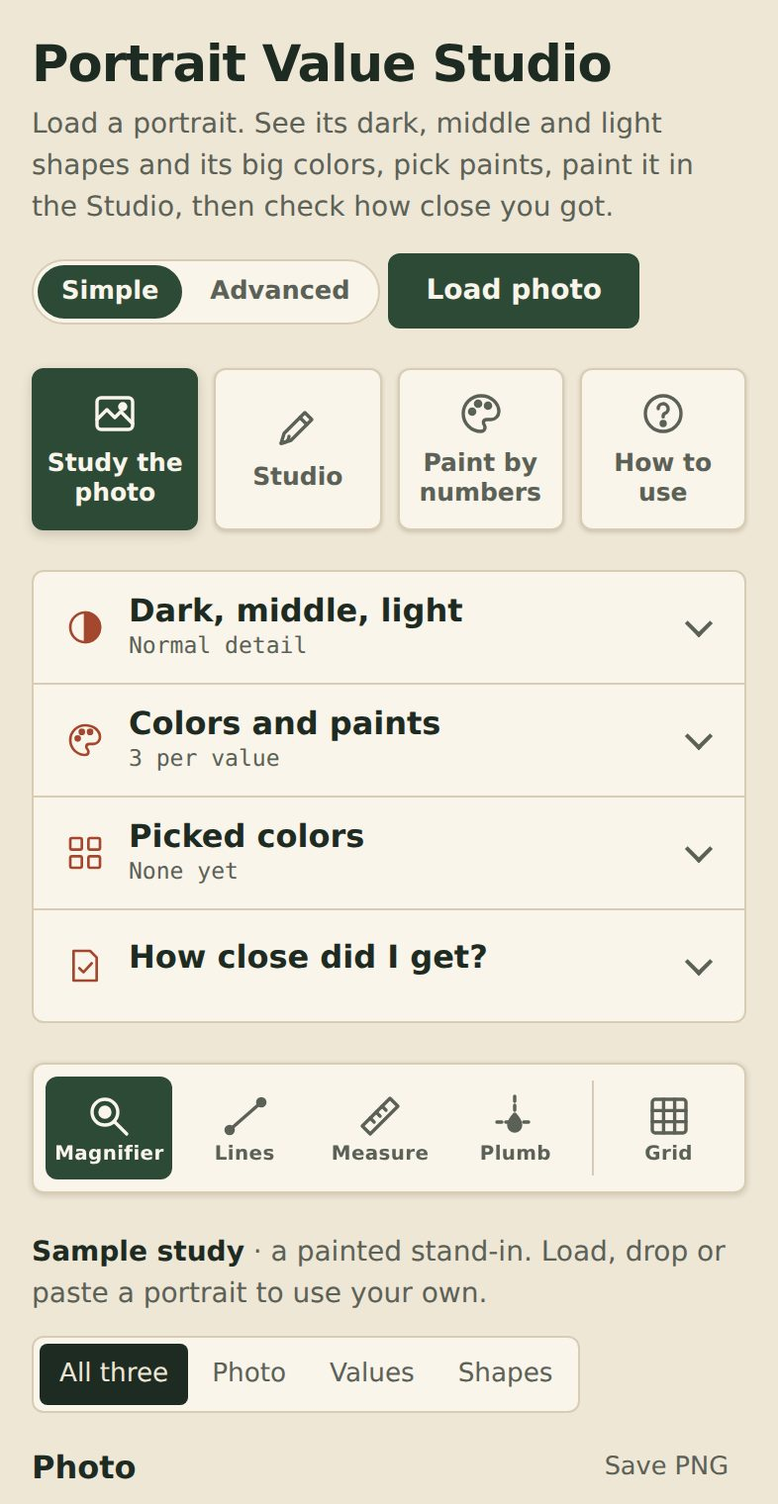
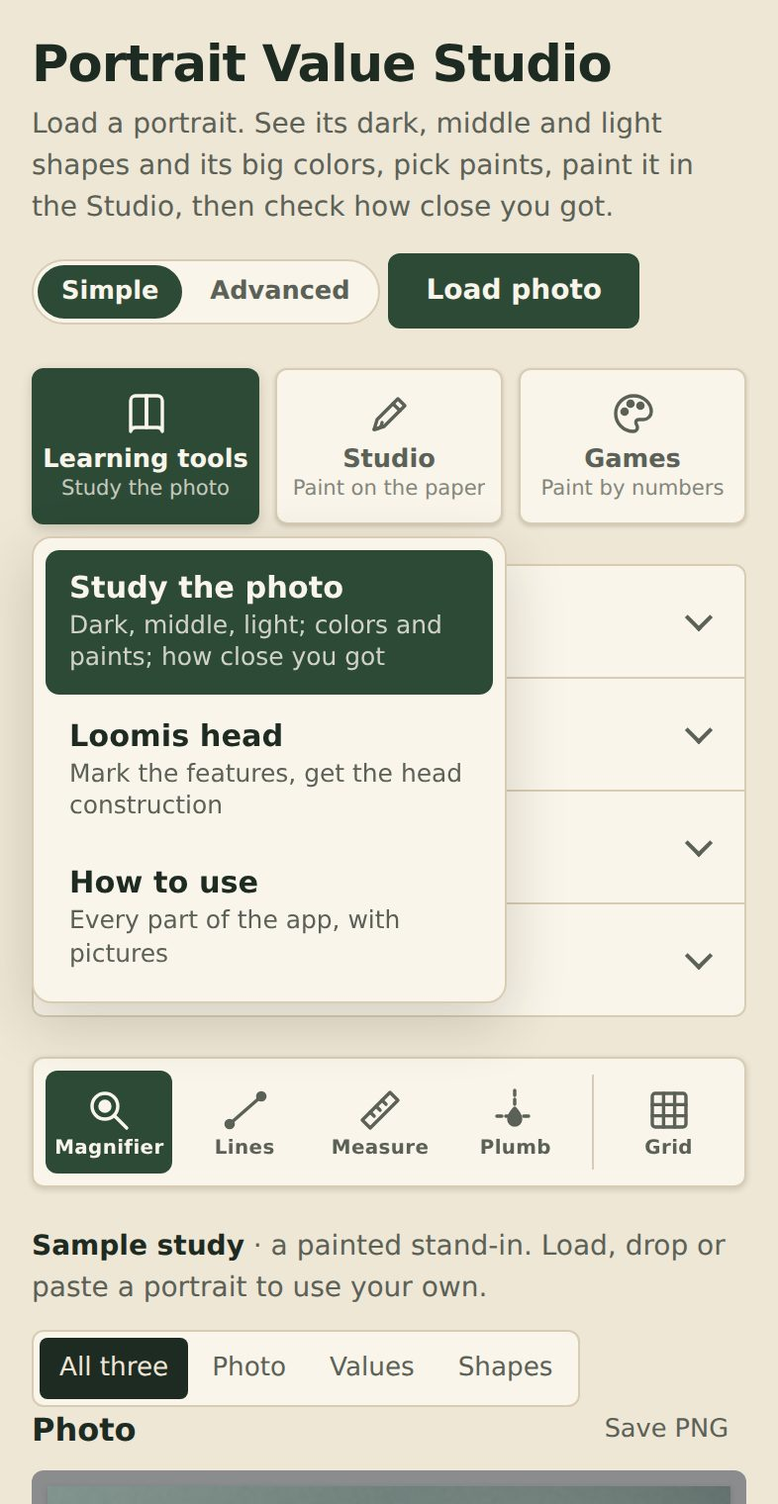
Three sections at the top: Learning tools, Studio and Games
The row of tabs becomes three section buttons. Learning tools opens a
menu with Study the photo, the Loomis head and How to use; Studio stays
its own button; Games opens a menu with Paint by numbers and a note that
more are coming. The group button shows which page is open. Menus close
on a choice, a click outside or Escape, and take arrow keys. The pages,
their links and the guide's jump buttons work as before.

Claude-Session: https://claude.ai/code/session_01XVREo3r8Hxw4H8arPAzQN1

diff --git a/index.html b/index.html
@@ -23,12 +23,23 @@
     </div>
   </header>
 
-  <div class="tabs" role="tablist" aria-label="Mode">
-    <button type="button" role="tab" class="tab" id="tabStudyBtn" aria-selected="true" aria-controls="tab-study"><svg class="tab-icon" viewBox="0 0 24 24" aria-hidden="true"><rect x="3" y="4" width="18" height="16" rx="2"/><path d="M3 15l5-5 4 4 3-3 6 6"/><circle cx="16" cy="8.5" r="1.5" fill="currentColor"/></svg><span>Study the photo</span></button>
-    <button type="button" role="tab" class="tab" id="tabLoomisBtn" aria-selected="false" aria-controls="tab-loomis" tabindex="-1"><svg class="tab-icon" viewBox="0 0 24 24" aria-hidden="true"><circle cx="12" cy="9.5" r="6.5"/><path d="M5.5 9.5h13M12 3v18M7.5 14.5 9 20h6l1.5-5.5"/><path d="M8.5 11.5h2M13.5 11.5h2"/></svg><span>Loomis head</span></button>
-    <button type="button" role="tab" class="tab" id="tabPaintBtn" aria-selected="false" aria-controls="tab-paint" tabindex="-1"><svg class="tab-icon" viewBox="0 0 24 24" aria-hidden="true"><path d="M4 20l1.5-5L16 4.5l3.5 3.5L9 18.5 4 20z"/><path d="M13.5 7l3.5 3.5"/><path d="M4 20c2.5 0 4-1.5 4-3.5"/></svg><span>Studio</span></button>
-    <button type="button" role="tab" class="tab" id="tabGameBtn" aria-selected="false" aria-controls="tab-game" tabindex="-1"><svg class="tab-icon" viewBox="0 0 24 24" aria-hidden="true"><path d="M12 3a9 9 0 1 0 0 18c1.4 0 2-1 2-2s-.8-1.5-.8-2.5S14 15 15 15h2a4 4 0 0 0 4-4c0-4.4-4-8-9-8z"/><circle cx="7.5" cy="11" r="1.3" fill="currentColor"/><circle cx="10.5" cy="7" r="1.3" fill="currentColor"/><circle cx="15.5" cy="8" r="1.3" fill="currentColor"/></svg><span>Paint by numbers</span></button>
-    <button type="button" role="tab" class="tab" id="tabHelpBtn" aria-selected="false" aria-controls="tab-help" tabindex="-1"><svg class="tab-icon" viewBox="0 0 24 24" aria-hidden="true"><circle cx="12" cy="12" r="9"/><path d="M9.5 9.5a2.5 2.5 0 1 1 3.5 2.3c-.7.3-1 .8-1 1.5v.4"/><circle cx="12" cy="17" r="1" fill="currentColor"/></svg><span>How to use</span></button>
+  <div class="tabs" aria-label="Sections">
+    <div class="tab-group" data-group="learn">
+      <button type="button" class="tab" id="tabLearnBtn" aria-selected="true" aria-haspopup="menu" aria-expanded="false" aria-controls="tabLearnMenu"><svg class="tab-icon" viewBox="0 0 24 24" aria-hidden="true"><path d="M4 5.5A2.5 2.5 0 0 1 6.5 3H12v16H6.5A2.5 2.5 0 0 0 4 21z"/><path d="M20 5.5A2.5 2.5 0 0 0 17.5 3H12v16h5.5a2.5 2.5 0 0 1 2.5 2z"/></svg><span class="tab-text"><span>Learning tools</span><span class="tab-sub" id="tabLearnSub">Study the photo</span></span><svg class="tab-caret" viewBox="0 0 24 24" aria-hidden="true"><path d="M6 9l6 6 6-6"/></svg></button>
+      <div class="tab-menu" id="tabLearnMenu" role="menu" hidden>
+        <button type="button" role="menuitemradio" class="tab-item" id="tabStudyBtn" data-tab="study" aria-checked="true"><span>Study the photo</span><small>Dark, middle, light; colors and paints; how close you got</small></button>
+        <button type="button" role="menuitemradio" class="tab-item" id="tabLoomisBtn" data-tab="loomis" aria-checked="false"><span>Loomis head</span><small>Mark the features, get the head construction</small></button>
+        <button type="button" role="menuitemradio" class="tab-item" id="tabHelpBtn" data-tab="help" aria-checked="false"><span>How to use</span><small>Every part of the app, with pictures</small></button>
+      </div>
+    </div>
+    <button type="button" class="tab" id="tabPaintBtn" data-tab="paint" aria-selected="false"><svg class="tab-icon" viewBox="0 0 24 24" aria-hidden="true"><path d="M4 20l1.5-5L16 4.5l3.5 3.5L9 18.5 4 20z"/><path d="M13.5 7l3.5 3.5"/><path d="M4 20c2.5 0 4-1.5 4-3.5"/></svg><span class="tab-text"><span>Studio</span><span class="tab-sub">Paint on the paper</span></span></button>
+    <div class="tab-group" data-group="games">
+      <button type="button" class="tab" id="tabGamesBtn" aria-selected="false" aria-haspopup="menu" aria-expanded="false" aria-controls="tabGamesMenu"><svg class="tab-icon" viewBox="0 0 24 24" aria-hidden="true"><path d="M12 3a9 9 0 1 0 0 18c1.4 0 2-1 2-2s-.8-1.5-.8-2.5S14 15 15 15h2a4 4 0 0 0 4-4c0-4.4-4-8-9-8z"/><circle cx="7.5" cy="11" r="1.3" fill="currentColor"/><circle cx="10.5" cy="7" r="1.3" fill="currentColor"/><circle cx="15.5" cy="8" r="1.3" fill="currentColor"/></svg><span class="tab-text"><span>Games</span><span class="tab-sub" id="tabGamesSub">Paint by numbers</span></span><svg class="tab-caret" viewBox="0 0 24 24" aria-hidden="true"><path d="M6 9l6 6 6-6"/></svg></button>
+      <div class="tab-menu" id="tabGamesMenu" role="menu" hidden>
+        <button type="button" role="menuitemradio" class="tab-item" id="tabGameBtn" data-tab="game" aria-checked="false"><span>Paint by numbers</span><small>Mix every number's color against the clock</small></button>
+        <p class="tab-menu-note">More games are on the way.</p>
+      </div>
+    </div>
   </div>
 
   <div class="layout">
@@ -279,7 +290,7 @@
 
 
 
-      <section class="tabpanel" id="tab-study" role="tabpanel" aria-labelledby="tabStudyBtn">
+      <section class="tabpanel" id="tab-study">
         <div class="work-bar">
           <p class="source" id="source"></p>
           <div class="seg" role="radiogroup" aria-label="Show">
@@ -359,7 +370,7 @@
         </section>
       </section>
 
-      <section class="tabpanel" id="tab-loomis" role="tabpanel" aria-labelledby="tabLoomisBtn" hidden>
+      <section class="tabpanel" id="tab-loomis" hidden>
         <div class="ps lh" id="lh-root">
           <div class="lh-card" id="lh-card">
             <p class="lh-step" id="lh-stepLabel">1 of 8</p>
@@ -394,7 +405,7 @@
         </div>
       </section>
 
-      <section class="tabpanel" id="tab-paint" role="tabpanel" aria-labelledby="tabPaintBtn" hidden>
+      <section class="tabpanel" id="tab-paint" hidden>
         <div class="ps" id="ps-root">
           <div class="ps-stage" id="ps-stage">
             <div class="ps-paper-wrap" id="ps-paperWrap">
@@ -574,7 +585,7 @@
         </div>
       </section>
 
-      <section class="tabpanel" id="tab-game" role="tabpanel" aria-labelledby="tabGameBtn" hidden>
+      <section class="tabpanel" id="tab-game" hidden>
         <div class="game-setup" id="gameSetup">
           <div class="game-card">
             <h2 class="game-title">Paint by numbers</h2>
@@ -755,12 +766,12 @@
         </div>
       </section>
 
-      <section class="tabpanel help" id="tab-help" role="tabpanel" aria-labelledby="tabHelpBtn" hidden>
+      <section class="tabpanel help" id="tab-help" hidden>
         <div class="help-intro">
           <h2 class="help-title">How to use Portrait Value Studio</h2>
           <p class="help-lede">Everything here runs in your browser. Your photos and paintings stay on your device. Here is the whole app, one part at a time, with pictures from a phone.</p>
           <ol class="help-steps">
-            <li><strong>Load a photo.</strong> Or keep the sample portrait. <button type="button" class="btn btn-small" data-go="study">Go to Study</button></li>
+            <li><strong>Load a photo.</strong> Or keep the sample portrait. <button type="button" class="btn btn-small" data-go="study">Go to Study the photo</button></li>
             <li><strong>Look at the shapes.</strong> See where the darks, middles and lights are, and which big colors there are.</li>
             <li><strong>Paint it in the Studio.</strong> Copy the lines, mix the colors, paint. <button type="button" class="btn btn-small" data-go="paint">Go to Studio</button></li>
             <li><strong>Check how close you got.</strong> Score your painting shape by shape. <button type="button" class="btn btn-small" data-go="check">Check a painting</button></li>
@@ -773,7 +784,7 @@
             <ol>
               <li><strong>Simple or Advanced.</strong> Simple shows only what you need. Advanced shows every setting. Start with Simple.</li>
               <li><strong>Load photo</strong> puts your own portrait in. A photo of a friend, straight on, in good light, works best.</li>
-              <li>The big buttons are the tabs: <strong>Study the photo</strong>, <strong>Loomis head</strong>, <strong>Studio</strong>, <strong>Paint by numbers</strong>, and this guide.</li>
+              <li>The three big buttons are the sections. <strong>Learning tools</strong> opens a menu with Study the photo, the Loomis head and this guide. <strong>Studio</strong> is the paper to paint on. <strong>Games</strong> opens a menu with Paint by numbers, and more games to come.</li>
             </ol>
           </div>
           <div class="help-shots"><figure class="phone"><img src="img/help/start.jpg" alt="The top of the page on a phone: the Simple and Advanced switch, Load photo and the four tabs" loading="lazy"><figcaption>The top of the page</figcaption></figure></div>

diff --git a/js/app.js b/js/app.js
@@ -27,7 +27,6 @@
       orig: $('cv-orig'), value: $('cv-value'), block: $('cv-block'),
       refblock: $('cv-refblock'), art: $('cv-art'), artblock: $('cv-artblock'), diff: $('cv-diff'),
     },
-    tabs: { study: $('tabStudyBtn'), loomis: $('tabLoomisBtn'), paint: $('tabPaintBtn'), game: $('tabGameBtn'), help: $('tabHelpBtn') },
     tabPanels: { study: $('tab-study'), loomis: $('tab-loomis'), paint: $('tab-paint'), game: $('tab-game'), help: $('tab-help') },
     toolHint: $('toolHint'),
     lineUndo: $('lineUndo'),
@@ -2043,35 +2042,54 @@
 
   // ---- Tabs ---------------------------------------------------------------
 
+  // Three sections at the top: Learning tools (a menu: Study the photo, Loomis head, How to use),
+  // Studio, and Games (a menu: Paint by numbers, with more to come). The group button shows which
+  // of its pages is open.
+  const GROUP_OF = { study: 'learn', loomis: 'learn', help: 'learn', paint: 'paint', game: 'games' };
+  const TAB_NAMES = { study: 'Study the photo', loomis: 'Loomis head', help: 'How to use', paint: 'Studio', game: 'Paint by numbers' };
+  const groupBtns = { learn: $('tabLearnBtn'), paint: $('tabPaintBtn'), games: $('tabGamesBtn') };
+  const groupSubs = { learn: $('tabLearnSub'), games: $('tabGamesSub') };
+  function closeMenus() {
+    document.querySelectorAll('.tab-menu').forEach((m) => { m.hidden = true; });
+    document.querySelectorAll('.tab[aria-haspopup]').forEach((b) => b.setAttribute('aria-expanded', 'false'));
+  }
   function switchTab(name, focus) {
+    if (!els.tabPanels[name]) return;
     state.tab = name;
     if (name !== 'study') setPicking(false); // picking a neutral spot only works on Your painting
-    Object.entries(els.tabs).forEach(([key, btn]) => {
-      const on = key === name;
-      btn.setAttribute('aria-selected', on);
-      btn.tabIndex = on ? 0 : -1;
-      els.tabPanels[key].hidden = !on;
-      if (on && focus) btn.focus();
-    });
+    Object.entries(els.tabPanels).forEach(([key, panel]) => { panel.hidden = key !== name; });
+    const group = GROUP_OF[name];
+    Object.entries(groupBtns).forEach(([key, btn]) => btn.setAttribute('aria-selected', String(key === group)));
+    if (groupSubs[group]) groupSubs[group].textContent = TAB_NAMES[name];
+    document.querySelectorAll('.tab-item').forEach((b) => b.setAttribute('aria-checked', String(b.dataset.tab === name)));
+    closeMenus();
+    if (focus) groupBtns[group].focus();
     if (checking() && state.art.dirty) runCheck();
-    // the game has its own board and controls: the drawers and tool bar step aside
+    // the game, the Studio, the Loomis head and the guide have their own layouts: the drawers and tool bar step aside
     document.body.classList.toggle('tab-game', name === 'game');
     document.body.classList.toggle('tab-help', name === 'help');
     if (name !== 'study') els.loupe.hidden = true;
     drawAllOverlays();
     window.dispatchEvent(new CustomEvent('studio:tab', { detail: name }));
   }
-
-  Object.entries(els.tabs).forEach(([key, btn]) => {
-    btn.addEventListener('click', () => switchTab(key));
-    btn.addEventListener('keydown', (e) => {
-      if (e.key !== 'ArrowRight' && e.key !== 'ArrowLeft') return;
-      e.preventDefault();
-      const keys = Object.keys(els.tabs);
-      const step = e.key === 'ArrowRight' ? 1 : keys.length - 1;
-      switchTab(keys[(keys.indexOf(key) + step) % keys.length], true);
+  document.querySelectorAll('.tab-item').forEach((b) => b.addEventListener('click', () => switchTab(b.dataset.tab, true)));
+  $('tabPaintBtn').addEventListener('click', () => switchTab('paint'));
+  document.querySelectorAll('.tab[aria-haspopup]').forEach((btn) => {
+    const menu = $(btn.getAttribute('aria-controls'));
+    btn.addEventListener('click', () => {
+      const open = menu.hidden;
+      closeMenus();
+      if (open) { menu.hidden = false; btn.setAttribute('aria-expanded', 'true'); const on = menu.querySelector('.tab-item[aria-checked="true"]') || menu.querySelector('.tab-item'); if (on) on.focus(); }
+    });
+    btn.addEventListener('keydown', (e) => { if (e.key === 'ArrowDown') { e.preventDefault(); btn.click(); } });
+    menu.addEventListener('keydown', (e) => {
+      const items = [...menu.querySelectorAll('.tab-item')], i = items.indexOf(document.activeElement);
+      if (e.key === 'ArrowDown' || e.key === 'ArrowUp') { e.preventDefault(); items[(i + (e.key === 'ArrowDown' ? 1 : items.length - 1)) % items.length].focus(); }
+      if (e.key === 'Escape') { closeMenus(); btn.focus(); }
     });
   });
+  document.addEventListener('pointerdown', (e) => { if (!e.target.closest('.tab-group')) closeMenus(); });
+  document.addEventListener('keydown', (e) => { if (e.key === 'Escape') closeMenus(); });
 
   // ---- Check my painting --------------------------------------------------
 
@@ -2506,6 +2524,7 @@
     marks,
     tool: () => state.tool,
     redraw: drawAllOverlays,
+    go: switchTab,
     result: () => state.result,
     source: () => state.source,
     prep: () => state.prep,

diff --git a/styles.css b/styles.css
@@ -334,13 +334,9 @@ output { font: 500 0.8rem var(--mono); color: var(--muted); font-variant-numeric
 .tool-plumb .view.on-ring { cursor: grab; }
 .tool-plumb .view.is-dragging { cursor: grabbing; }
 
-/* ---- Tabs: three big buttons ---- */
-.tabs {
-  display: grid;
-  grid-template-columns: repeat(10, minmax(0, 1fr));
-  gap: 10px;
-}
-.tab { grid-column: span 2; }
+/* ---- Tabs: three big buttons; Learning tools and Games open menus ---- */
+.tabs { display: grid; grid-template-columns: repeat(3, minmax(0, 1fr)); gap: 10px; }
+.tab-group { position: relative; min-width: 0; display: grid; }
 .tab {
   appearance: none;
   display: flex;
@@ -348,7 +344,7 @@ output { font: 500 0.8rem var(--mono); color: var(--muted); font-variant-numeric
   justify-content: center;
   gap: 10px;
   min-height: 60px;
-  padding: 12px 16px;
+  padding: 10px 16px;
   background: var(--surface);
   border: 1px solid var(--line);
   border-radius: var(--r);
@@ -357,19 +353,35 @@ output { font: 500 0.8rem var(--mono); color: var(--muted); font-variant-numeric
   color: var(--muted);
   text-align: center;
   cursor: pointer;
+  min-width: 0;
   transition: background 0.15s, color 0.15s, border-color 0.15s, transform 0.1s;
 }
 .tab-icon { flex: none; width: 26px; height: 26px; fill: none; stroke: currentColor; stroke-width: 1.7; stroke-linecap: round; stroke-linejoin: round; }
+.tab-caret { flex: none; width: 18px; height: 18px; fill: none; stroke: currentColor; stroke-width: 2; stroke-linecap: round; stroke-linejoin: round; opacity: 0.7; transition: transform 0.15s; }
+.tab[aria-expanded="true"] .tab-caret { transform: rotate(180deg); }
+.tab-text { display: grid; gap: 1px; min-width: 0; }
+.tab-sub { font: 500 0.72rem/1.2 var(--body); opacity: 0.75; white-space: nowrap; overflow: hidden; text-overflow: ellipsis; }
 .tab:hover { color: var(--ink); border-color: var(--accent); }
 .tab:active { transform: translateY(1px); }
 .tab:focus-visible { outline: 2px solid var(--accent); outline-offset: 2px; }
 .tab[aria-selected="true"] { background: var(--accent); border-color: var(--accent); color: var(--accent-ink); box-shadow: 0 2px 6px var(--shadow); }
+.tab-menu { position: absolute; left: 0; top: calc(100% + 6px); z-index: 30; min-width: min(320px, 92vw); display: grid; gap: 2px; padding: 6px; background: var(--surface); border: 1px solid var(--line); border-radius: 10px; box-shadow: 0 10px 30px var(--shadow); }
+.tab-group:last-child .tab-menu { left: auto; right: 0; }
+.tab-item { appearance: none; display: grid; gap: 2px; width: 100%; padding: 10px 12px; border: 0; border-radius: 7px; background: none; color: var(--ink); text-align: left; cursor: pointer; font: 600 0.95rem/1.2 var(--display); }
+.tab-item small { font: 400 0.78rem/1.3 var(--body); color: var(--muted); }
+.tab-item:hover, .tab-item:focus-visible { background: var(--ground); outline: none; }
+.tab-item[aria-checked="true"] { background: var(--accent); color: var(--accent-ink); }
+.tab-item[aria-checked="true"] small { color: inherit; opacity: 0.8; }
+.tab-menu-note { margin: 2px 0 0; padding: 8px 12px; font-size: 0.78rem; color: var(--muted); border-top: 1px solid var(--line); }
 @media (max-width: 640px) {
-  .tabs { gap: 8px; grid-template-columns: repeat(6, minmax(0, 1fr)); }
-  .tab { grid-column: span 2; }
-  .tab:nth-child(n+4) { grid-column: span 3; }
-  .tab { flex-direction: column; gap: 6px; min-height: 76px; padding: 10px 4px; font-size: 0.78rem; }
+  .tabs { gap: 8px; }
+  .tab { flex-direction: column; gap: 4px; min-height: 76px; padding: 10px 4px; font-size: 0.8rem; }
+  .tab-sub { font-size: 0.66rem; max-width: 100%; }
+  .tab-caret { display: none; }
   .tab-icon { width: 24px; height: 24px; }
+  .tab-menu { min-width: 0; width: max(100%, 240px); }
+  .tab-group:first-child .tab-menu { left: 0; right: auto; }
+}
 }
 .tabpanel { display: grid; gap: 16px; min-width: 0; }
 

diff --git a/js/loomis.js b/js/loomis.js
@@ -264,7 +264,7 @@
   $('reset').addEventListener('click', reset);
   $('refit').addEventListener('click', () => { if (state.auto) { state.fit = { ...state.auto }; Studio.redraw(); drawTab(); } });
   $('show').addEventListener('click', () => { state.shown = !state.shown; render(); });
-  const toStudio = () => { document.getElementById('tabPaintBtn').click(); setTimeout(() => document.getElementById('ps-sketchFromStudy').click(), 150); };
+  const toStudio = () => { Studio.go('paint'); setTimeout(() => document.getElementById('ps-sketchFromStudy').click(), 150); };
   $('studio').addEventListener('click', toStudio);
   $('cardStudio').addEventListener('click', toStudio);
   $('save').addEventListener('click', () => {
@@ -276,7 +276,7 @@
     draw(g, prep.w, prep.h, Math.max(1, Math.max(prep.w, prep.h) / 500));
     Studio.savePng(c, 'loomis-head.png');
   });
-  $('exit').addEventListener('click', () => document.getElementById('tabStudyBtn').click());
+  $('exit').addEventListener('click', () => Studio.go('study'));
 
   // ---- The photo on the stage, and the marks made on it ----------------------------------------
   const photo = $('photo'), overlay = $('overlay'), wrap = $('wrap');

diff --git a/js/painting.js b/js/painting.js
@@ -435,7 +435,7 @@
   $('refBtn').addEventListener('click', () => openSheet('refSheet'));
   document.addEventListener('keydown', (e) => { if (active && e.key === 'Escape') closeSheets(); });
   // on a phone the tabs are out of view while painting, so the strip has a way back
-  $('exit').addEventListener('click', () => document.getElementById('tabStudyBtn').click());
+  $('exit').addEventListener('click', () => Studio.go('study'));
 
   // ---- The reference: the Study tab's photo, or a generated portrait, shown as itself, its ---------
   // three-value study or its color-block study

diff --git a/README.md b/README.md
@@ -1,6 +1,6 @@
 # Portrait Value Studio
 
-A browser tool for drawing and painting from reference portraits. Load a photo and it makes two studies next to the original (a Paint by numbers game and a Studio to paint in follow, in their own tabs, and a drawer checks your painting against the reference):
+A browser tool for drawing and painting from reference portraits. Load a photo and it makes two studies next to the original (three sections sit at the top: **Learning tools**, a menu with Study the photo, the Loomis head and How to use; **Studio**, a paper to paint on; and **Games**, a menu with Paint by numbers and room for more):
 
 - **Dark, middle, light** (the three-value study): the photo simplified into large shadow, middle and light masses, each painted a single gray.
 - **Big color shapes** (the color-block study): the same value masses, split into a few color groups per value. Each group is filled with its most prominent color: the color that covers the most of it in the photo, not a mix of everything in it. **Lean toward lighter tones** (in Colors and paints, 60% by default) corrects a dark bias in that choice: in a lit face most pixels of a group sit on its darker side, so the busiest color reads dark and a few lighter highlights lose. With the lean up, a group takes the lightest color of the same hue that is still common enough in it (at 100%, one a quarter as common as the busiest), so lit skin keeps its lights; at Off it takes the most common color as before. The same setting applies to the game board and to Check my painting, which reads both pictures the same way, so it doesn't count as a miss. It is remembered between visits. The switch above it shows the blocks in the photo's colors (**Photo**) or as your palette mixes them (for example **Zorn**): each block is repainted with the closest mix the palette makes, so you can see the painting your paints would give. The palette is the one chosen under **Colors and paints**, or, until you choose one, the known palette that mixes the study best. The choice is remembered, and the magnifier and **Save PNG** use the colors shown.
@@ -63,7 +63,7 @@ The mixes are worked out with a pigment model, not by averaging screen colors (w
 
 ### Loomis head
 
-The second tab fits the classic head construction over the face, laid out like the Studio: the photo fills the screen, and a card names one feature at a time: each eye, each eyebrow, the nose, the mouth, the chin and the forehead (eyebrows and forehead can be skipped). Tap the feature on the photo; a loupe shows the spot magnified under the finger, so drag until it is exact, then press **Lock in** (**Back** undoes the last one). After the last the head is drawn over the photo: the ball of the cranium, the flattened side plane with its vertical, the brow line through the ball's centre, the hairline, the centre line down the face, the eye, nose, mouth and chin lines, and the jaw. Lines on the far side of the head are faint and dashed.
+The Loomis head, under Learning tools, fits the classic head construction over the face, laid out like the Studio: the photo fills the screen, and a card names one feature at a time: each eye, each eyebrow, the nose, the mouth, the chin and the forehead (eyebrows and forehead can be skipped). Tap the feature on the photo; a loupe shows the spot magnified under the finger, so drag until it is exact, then press **Lock in** (**Back** undoes the last one). After the last the head is drawn over the photo: the ball of the cranium, the flattened side plane with its vertical, the brow line through the ball's centre, the hairline, the centre line down the face, the eye, nose, mouth and chin lines, and the jaw. Lines on the far side of the head are faint and dashed.
 
 The head is adjusted on the picture itself. Dragging a dot moves that mark and refits the head. Dragging a line of the head changes what that line stands for: the centre line or the side plane turns the head, the brow, hairline or eye line nods it, the nose, mouth, chin or jaw line sets the face length, the ball's edge sets its size, and a drag anywhere else inside the head moves it (each drag solves for the one value that brings the line under the finger). Arrow buttons around the ball turn, nod and tilt it three degrees at a tap, and keep going while held. **Back to the fit** on the card returns to the fitted head. The strip loads a photo, steps back a mark, starts over, hides the head, saves a PNG, and **Draw it in the Studio** puts the construction on the Studio's underdrawing in pencil. The same head shows over the Study tab's pictures and is part of what **Copy the Study lines** copies and of their saved PNGs.
 
@@ -71,7 +71,7 @@ The head is a small 3-D model in units of the ball's radius, after Loomis's *Dra
 
 ### Studio
 
-The third tab is a paper to paint on, with the studio's own paints and mixing model. The paper fills the screen; one strip of small icons holds every tool, at the bottom on a phone and down the left on a wider screen. A tool's options, the paints, the reference, the canvas and the zoom open as small sheets over the paper and close when you paint. On a phone the page header and tabs step aside while you paint; the first icon on the strip leads back.
+The Studio tab is a paper to paint on, with the studio's own paints and mixing model. The paper fills the screen; one strip of small icons holds every tool, at the bottom on a phone and down the left on a wider screen. A tool's options, the paints, the reference, the canvas and the zoom open as small sheets over the paper and close when you paint. On a phone the page header and tabs step aside while you paint; the first icon on the strip leads back.
 
 - **Brushes**: the chisel (a flat tip at a fixed angle, in small, medium and large), the round brush (with a scale slider), the pencil (graphite in 2H, HB and 4B, or charcoal in hard, medium and soft, both with a size slider and drawing in black or white only; pen pressure counts), the underdrawing brush (the same pencil on its own layer beneath the paint, which can be shown, hidden or cleared and never mixes with the painting; **Copy the Study lines** draws the grid, lines, measures and plumb lines from the Study tab on it in pencil, with the lead, hardness, size and color set for the underdrawing, fitted to the paper as the reference would be) and the blend fan brush (drags the paint already on the paper, with size and strength). The brushes share one icon: tap it after another tool to get the last brush back as it was, or while a brush is in hand to open the row of brushes and their options.
 - **Eraser**: tap to use it, tap again for its size. It rubs out whichever layer was drawn on last.
@@ -83,7 +83,7 @@ The third tab is a paper to paint on, with the studio's own paints and mixing mo
 
 ### Paint by numbers
 
-The fourth tab is a timed game on the color-block study. The reference becomes a paint-by-numbers board: its color groups, outlined in black and numbered from the darkest (1) to the lightest. A photo is simplified exactly as the **Study the reference** tab simplifies it, with the same working size, value splits, simplify, smoothing and merge, so the board has the shapes of the color-block study; the difficulty only sets how many colors each value gets (Medium's 3 matches the study's default). The side panels step aside while you play.
+Paint by numbers, under Games, is a timed game on the color-block study. The reference becomes a paint-by-numbers board: its color groups, outlined in black and numbered from the darkest (1) to the lightest. A photo is simplified exactly as the **Study the reference** tab simplifies it, with the same working size, value splits, simplify, smoothing and merge, so the board has the shapes of the color-block study; the difficulty only sets how many colors each value gets (Medium's 3 matches the study's default). The side panels step aside while you play.
 
 1. Choose what to paint from. **My photo** uses the reference loaded in the app (the sample portrait until you load your own; **Load another photo** opens a new one). **A painting** draws you a brand-new portrait each time, after Rembrandt, Zorn, Sargent, Sorolla, Velázquez, Frans Hals or Vermeer. Nothing is stored: a portrait is a painter and a random seed, and the seed decides everything else (a man or a woman, a beard, a moustache, a bun or long hair, a pearl, the collar and clothes, how the head is turned and lit), following that painter's habits, so there is no fixed set; about half are women. Roughly a quarter are old (white hair or beard, hollower cheeks and temples, deeper eye sockets under a heavier brow, thinner lips, a longer nose), most heads are turned three-quarters but some are nearly full face or in profile, the lamp can be the painter's usual side light, a soft frontal light, a dramatic raking one or one from above, and the wall behind can be a lighter block, a wedge, a window with its bars, a darker table or plain, in a tint and shade of the painter's ground. The head, neck and shoulders turn by an amount that eases with height, so the joins between them have no gaps, planes that face away are laid at the very back in shadow, and a last pass closes any seam left inside the figure, so no background shows through a portrait. Clothes come in each painter's colors, such as wine, green, navy, ochre or slate, as well as black and white. **Another painting** draws a different one, and a new visit draws a new one. Each is a planar head in the Loomis and Asaro manner, turned three-quarters and lit by one lamp, with every plane filled with one flat color from that painter's palette, so it already reads like a color-block study. The women have a finer jaw, chin and nose, fuller lips, a slimmer neck and narrower shoulders, with their hair over the temples in a bun or falling to the shoulders, some with a pearl earring. Painting boards keep the planes' straight edges, and your best score is kept for each painting.
 2. Choose a difficulty, a mode and a palette. **Easy** has up to 6 numbers and 3 minutes, **Medium** up to 9 and 5 minutes, **Hard** up to 12 and 8 minutes; a photo with fewer distinct colors gets fewer numbers. The palette can be any of the known palettes or, once you have ticked at least two, **My paints**. The game suggests a palette for the portrait (marked **suggested** and chosen for you): the one whose mixes come closest to its colors, or of those within a point of the best, the one with fewest paints. Whichever palette you use, the reference is mixed from it: each number's color becomes the closest mix the pigment model finds for the study's color with those paints, in amounts you can tap, so every number can be matched exactly. The setup says how many of the study's colors that palette mixes closely, so you can see how far it strays from the photo.
@@ -125,7 +125,7 @@ With the built-in sample, the drawer opens with a made-up example painting, phot
 
 ## How to use
 
-The fifth tab is a guide to the whole app, one part at a time, each with phone screenshots in a phone frame: getting around, the Study tab's pictures, the drawing tools, colors and paints, the Studio and its sheets, How close did I get?, Paint by numbers, and a few things good to know (nothing is uploaded, the Studio autosaves, where Undo is). It opens with the four-step path through the app, with buttons that jump to the part they describe. The screenshots are in `img/help/`, taken from the app itself at phone width.
+How to use, under Learning tools, is a guide to the whole app, one part at a time, each with phone screenshots in a phone frame: getting around, the Study tab's pictures, the drawing tools, colors and paints, the Studio and its sheets, How close did I get?, Paint by numbers, and a few things good to know (nothing is uploaded, the Studio autosaves, where Undo is). It opens with the four-step path through the app, with buttons that jump to the part they describe. The screenshots are in `img/help/`, taken from the app itself at phone width.
 
 ## Simple and Advanced
 
